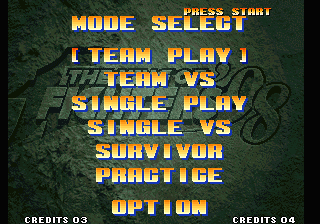
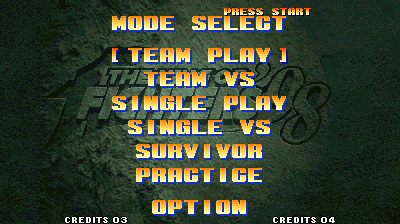
README: screenshots in widescreen only

diff --git a/README.md b/README.md
@@ -7,23 +7,18 @@ This is the first step of a bigger plan: bring the whole KOF series, from '94 to
 > **No game data here.** You need your own dumps of the game and the Neo Geo system ROM (MAME sets `kof98h` and `neogeo`). The recompiled C is generated from your dump, on your machine, at build time. It is never committed or distributed, and neither is anything else derived from the ROMs.
 
 <p align="center">
-  <img src="docs/screenshots/fight-wide.png" alt="A fight in widescreen" width="600"><br>
-  <img src="docs/screenshots/select-wide.png" alt="The character select in widescreen" width="600">
+  <img src="docs/screenshots/fight.png" alt="A fight in widescreen" width="720">
 </p>
 
 ## Screenshots
 
-The same frames from the recompiled build, as the original 4:3 picture and in widescreen (`--headless --screenshot`, with and without `--widescreen`):
+Real output from the recompiled build, in widescreen (`--widescreen --headless --screenshot`):
 
-| Original (4:3) | Widescreen (16:9) |
+| | |
 |---|---|
-| ![NEOGEO boot](docs/screenshots/bios.png) | ![NEOGEO boot, widescreen](docs/screenshots/bios-wide.png) |
-| ![Intro](docs/screenshots/intro.png) | ![Intro, widescreen](docs/screenshots/intro-wide.png) |
-| ![Title](docs/screenshots/title.png) | ![Title, widescreen](docs/screenshots/title-wide.png) |
-| ![Mode select](docs/screenshots/mode.png) | ![Mode select, widescreen](docs/screenshots/mode-wide.png) |
-| ![Character select](docs/screenshots/select.png) | ![Character select, widescreen](docs/screenshots/select-wide.png) |
-| ![Order select](docs/screenshots/order.png) | ![Order select, widescreen](docs/screenshots/order-wide.png) |
-| ![Fight](docs/screenshots/fight.png) | ![Fight, widescreen](docs/screenshots/fight-wide.png) |
+| ![Intro](docs/screenshots/intro.png) | ![Title](docs/screenshots/title.png) |
+| ![Mode select](docs/screenshots/mode.png) | ![Character select](docs/screenshots/select.png) |
+| ![Order select](docs/screenshots/order.png) | ![Fight](docs/screenshots/fight-hit.png) |
 
 The stone behind the title and the menus uses new margin art ([below](#widescreen-art)).
 
